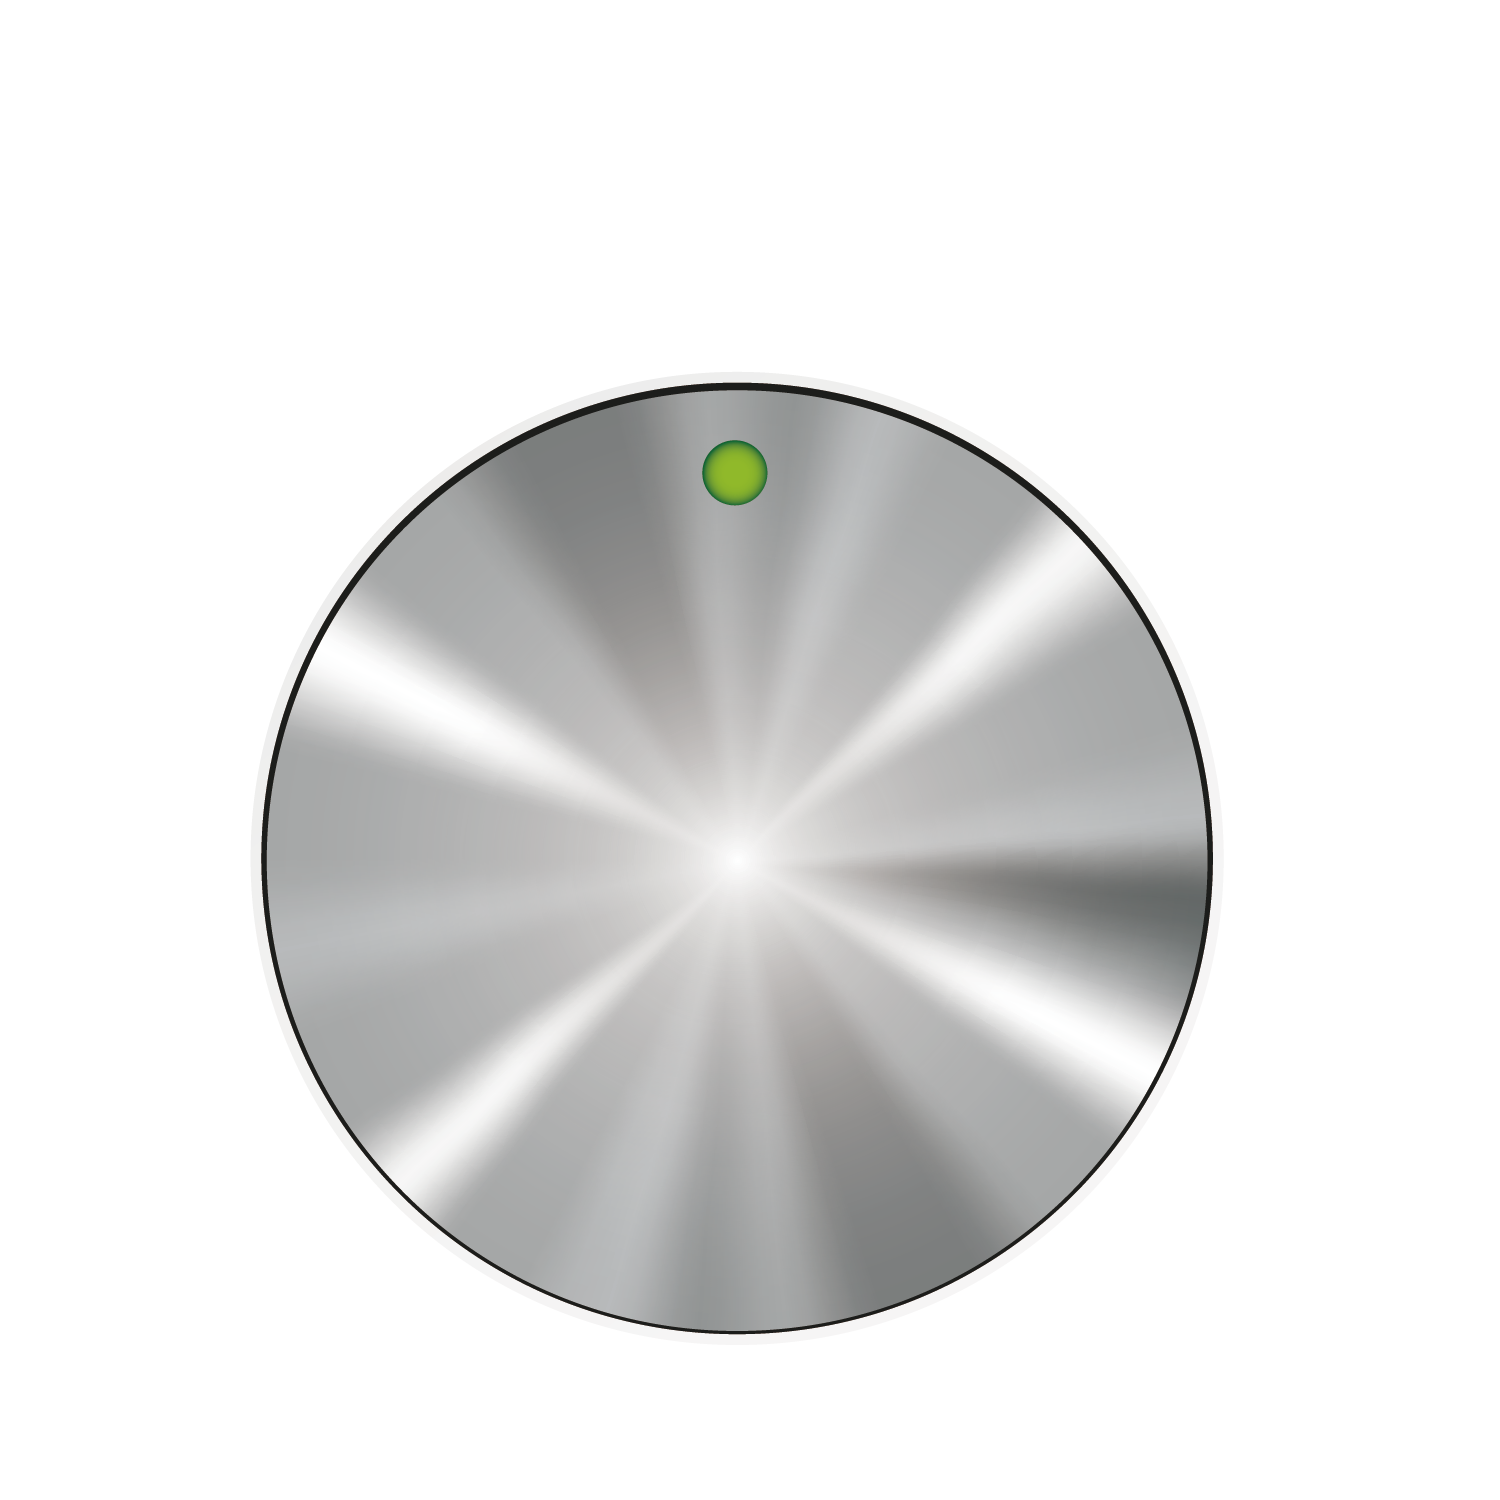
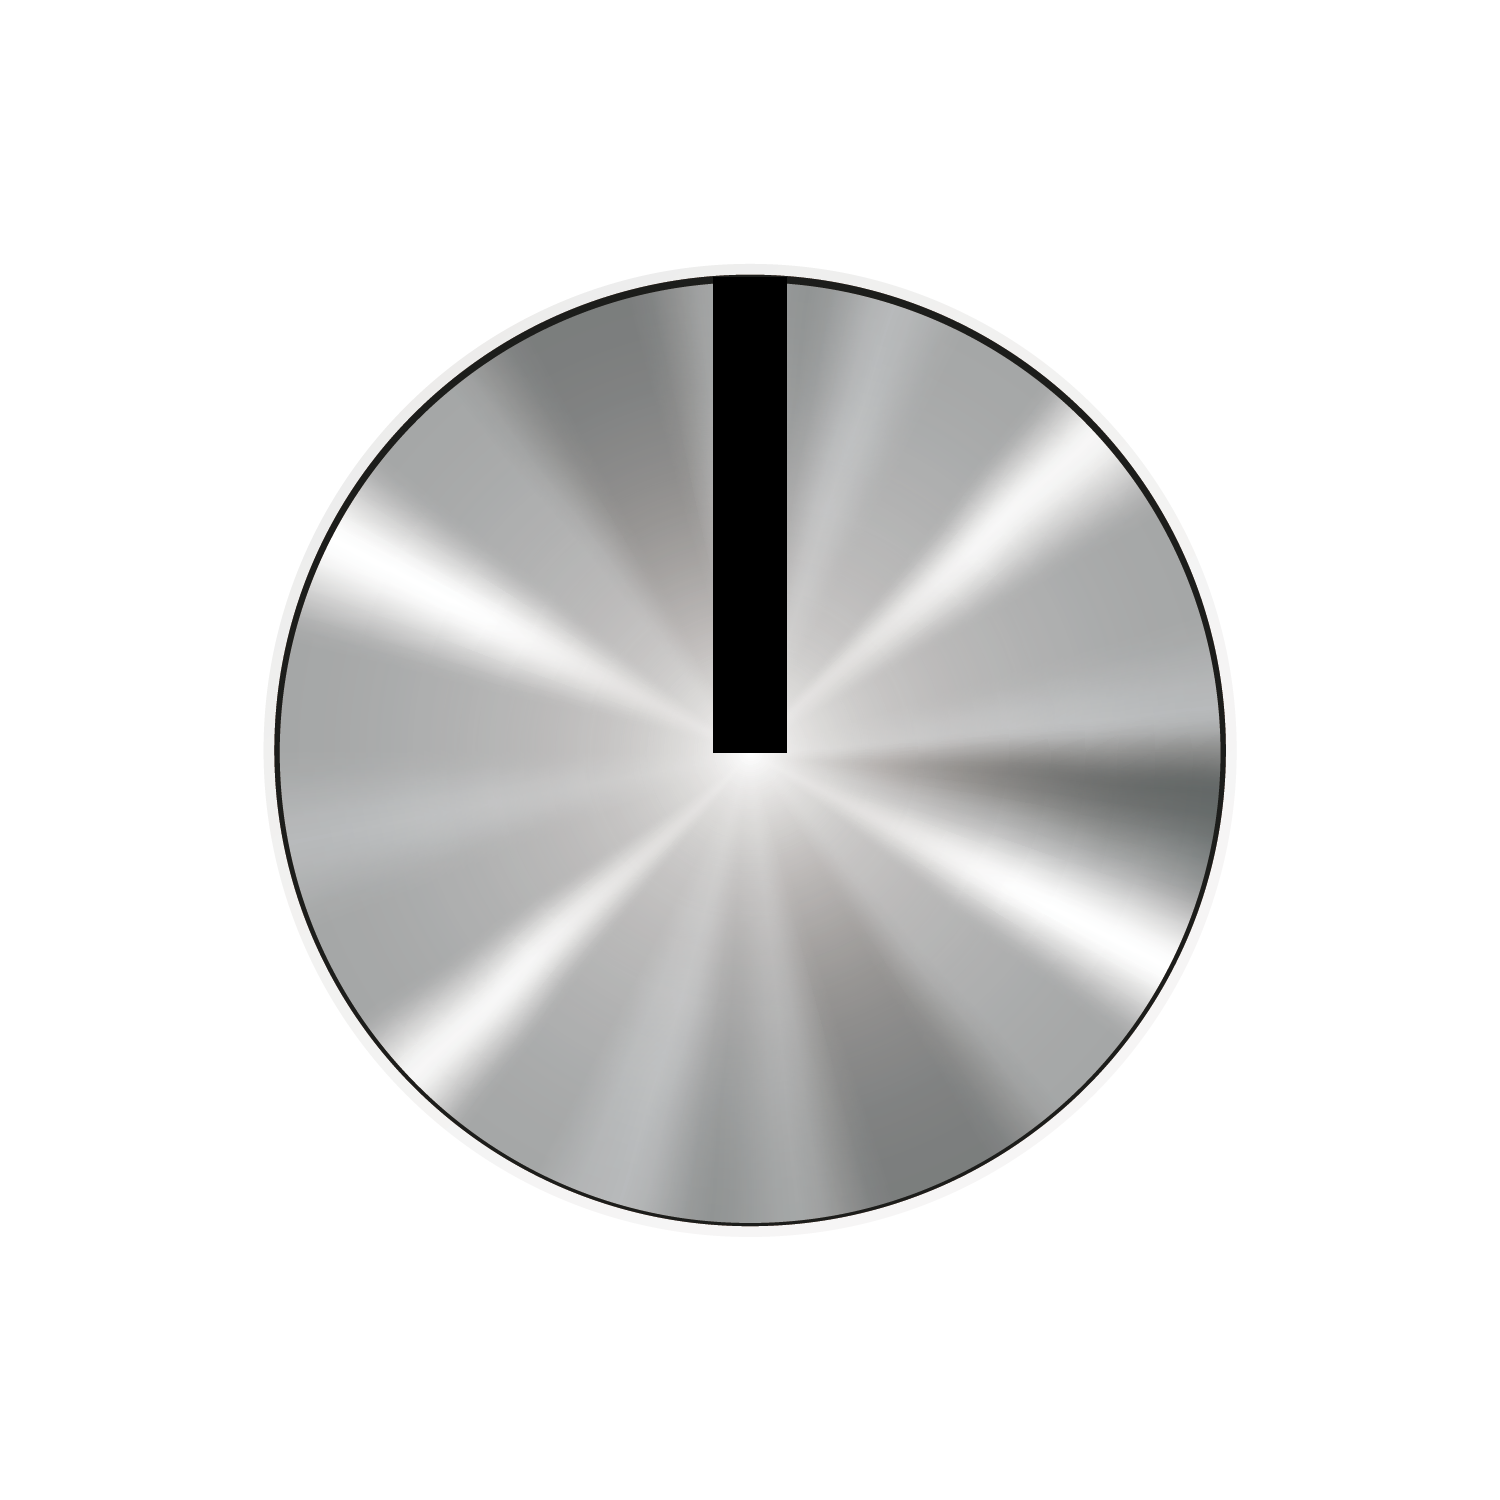
Adding the tire rotation mechanics

Changed region(s): [[0.1533, 0.184, 0.828, 0.8893]]

diff --git a/renderer.js b/renderer.js
@@ -2,6 +2,7 @@ let voltageData = [];
 let timeData = [];
 let voltageChart;
 let currentVoltage = 0;
+let speedPercentage  = 50;
 
 function drawLines() {
    // Drawing the circuit
@@ -15,8 +16,6 @@ function drawLines() {
   var spdtPositionY = document.getElementById('switchCircuit-box').getBoundingClientRect().bottom + window.scrollY - 20;
 
   var motorPositionX = document.getElementById('circuitMotor').getBoundingClientRect().left + window.scrollX + 105;
-  var motorPositionXL = document.getElementById('circuitMotor').getBoundingClientRect().left + window.scrollX + 50;
-  var motorPositionXR = document.getElementById('circuitMotor').getBoundingClientRect().right + window.scrollX - 50;
   var motorPositionYT = document.getElementById('circuitMotor').getBoundingClientRect().top + window.scrollY + 20;
   var motorPositionYB = document.getElementById('circuitMotor').getBoundingClientRect().bottom + window.scrollY + 10;
 
@@ -113,17 +112,78 @@ function drawLines() {
 
 document.addEventListener('DOMContentLoaded', () => {
   const powerButton = document.getElementById('powerButton');
-  const progressBar = document.getElementById('progressBar');
-  const lightButtons = document.querySelectorAll('.lightButton');
 
   let isPowerOn = false;
-  let intervalId;
-  let batteryLevel = 0; // Start with an empty battery
+  const knob = document.getElementById('knob');
+  let isDragging = false;
+  let startY = 0;
+  let tireRotation = 0;
+  let currentRotation = 0;
+  const tire = document.getElementById('tire');
 
-  const batteryDischargeRate = 0.5; // Percent per second
-  const batteryChargeRate = 10; // Percent per second
-  const maxBatteryLevel = 100;
-  const voltageCoefficient = 12.2 / maxBatteryLevel; // To calculate voltage based on battery level
+  function getRotationDegrees(yMove) {
+    // Calculate rotation, with 1 pixel movement corresponding to 1 degree of rotation
+    const degreesPerPixel = 180 / 100; // assuming 100 pixels movement for full range
+    return yMove * degreesPerPixel;
+  }
+
+  function animateTire() {
+    if (isPowerOn && speedPercentage > 0) {
+      // The base speed determines how fast the tire rotates at 100% speed
+      const baseSpeed = 0.5; // degrees per animation frame
+      // Adjust the speed based on the knob's percentage (linear scaling)
+      const speedAdjustment = (speedPercentage / 100) * baseSpeed;
+      tireRotation += speedAdjustment;
+      tireRotation = tireRotation % 360; // Keep the rotation angle within [0, 360]
+      tire.style.transform = `rotate(${tireRotation}deg)`;
+
+      requestAnimationFrame(animateTire); // Continue the animation loop
+    }
+  }
+
+  function updateKnob(value) {
+    // Clamp the value to the range -90 to 90
+    value = Math.max(-90, Math.min(90, value));
+    // Apply rotation to the knob
+    knob.style.transform = `rotate(${value}deg)`;
+    // Convert the angle to a percentage and log it
+    speedPercentage = (value + 90) / 180 * 100;
+    if (isPowerOn) {
+      requestAnimationFrame(animateTire);
+    }
+    console.log(`Knob value: ${speedPercentage.toFixed(2)}%`);
+  }
+
+  knob.addEventListener('mousedown', event => {
+    isDragging = true;
+    startY = event.clientY;
+    // Cancel any text selection
+    document.body.style.userSelect = 'none';
+    event.preventDefault(); // Prevent default drag behavior
+  });
+
+  document.addEventListener('mousemove', event => {
+    if (isDragging) {
+      const deltaY = event.clientY - startY;
+      // Calculate the new rotation based on deltaY
+      const newRotation = currentRotation - getRotationDegrees(deltaY);
+      // Update the knob with the new rotation
+      updateKnob(newRotation);
+    }
+  });
+
+  document.addEventListener('mouseup', event => {
+    if (isDragging) {
+      // Finalize the rotation value
+      const deltaY = event.clientY - startY;
+      currentRotation -= getRotationDegrees(deltaY);
+      currentRotation = Math.max(-90, Math.min(90, currentRotation)); // Clamp final rotation
+      updateKnob(currentRotation); // Update for the last time
+      isDragging = false;
+      // Restore text selection
+      document.body.style.userSelect = '';
+    }
+  });
 
 
   // Initialize the voltmeter with a value of 0 because the power is off
@@ -159,130 +219,26 @@ document.addEventListener('DOMContentLoaded', () => {
     }
   });
 
-
-  function updateAmmeter() {
-    const voltage = batteryLevel * voltageCoefficient;
-    const lightsOn = document.querySelectorAll('.lightButton.active').length;
-    
-    // Calculate the total power consumed by the lights
-    const totalPower = lightsOn * 21; // Assuming each light consumes 21W
-    const current = voltage > 0 ? totalPower / voltage : 0; // Avoid division by zero
-  }
-  
   setInterval(() => {
     const now = new Date().toLocaleTimeString();
     timeData.push(now);
     voltageData.push(currentVoltage);
     voltageChart.update();
-  }, 500); // 500 ms interval
-
-  // Function to update the voltmeter based on the current battery level
-  function updateVoltmeter() {
-    currentVoltage = batteryLevel * voltageCoefficient;
-    updateAmmeter(); // Update the ammeter at the same time
-  }
-
-  function updateStats() {
-    const voltage = batteryLevel * voltageCoefficient;
-    const lightsOn = document.querySelectorAll('.lightButton.active').length;
-    const totalPower = lightsOn * 21; // Assuming each light consumes 21W
-    const current = voltage > 0 ? totalPower / voltage : 0;
-    
-    const soc = batteryLevel; // Assuming SOC is directly proportional to battery level
-    const dod = 100 - soc; // DOD is the complement of SOC 
-  
-  }
-  
-
-  // Function to update the battery level and progress bar
-  function updateBatteryLevel(delta) {
-    batteryLevel += delta;
-    batteryLevel = Math.max(0, Math.min(maxBatteryLevel, batteryLevel)); // Keep battery level within bounds
-    progressBar.style.width = `${batteryLevel}%`;
-    updateVoltmeter();
-    updateStats();
-  }
+  }, 500);
 
   // Event listener for the power button
   powerButton.addEventListener('click', () => {
     isPowerOn = !isPowerOn;
     powerButton.style.backgroundColor = isPowerOn ? 'red' : 'white';
     powerButton.style.color = isPowerOn ? 'white' : 'red';
-    document.getElementById("batteryStat").textContent = isPowerOn ? 'Battery Status: Charging' : 'Battery Status: Not Charging';
-    managePowerState();
-  });
-
-  // Function to manage power state and battery charging/discharging
-  function managePowerState() {
-    clearInterval(intervalId); // Clear any existing interval
-
     if (isPowerOn) {
-      intervalId = setInterval(() => {
-        // Charge the battery if no lights are active
-        updateBatteryLevel(batteryChargeRate / 10);
-        // Check for battery full
-        if (batteryLevel >= maxBatteryLevel) {
-          batteryLevel = maxBatteryLevel;
-          clearInterval(intervalId);
-          alert('Battery charged to 100%');
-        }
-      }, 100); // Update 10 times per second
+      requestAnimationFrame(animateTire);
     } else {
-      updateVoltmeter(); // Update voltmeter to 0 when power is off
+      tire.style.transform = 'none'; // Reset the rotation
+      tireRotation = 0; // Reset the rotation angle
     }
-    updateStats();
-  }
-
-  // Function to manage light state and battery discharging
-  function manageLightState() {
-    clearInterval(intervalId); // Clear any existing interval
-
-    intervalId = setInterval(() => {
-        const lightsOn = document.querySelectorAll('.lightButton.active').length;
-        if (lightsOn > 0) {
-            updateBatteryLevel(-batteryDischargeRate * lightsOn / 10);
-            document.getElementById("batteryStat").textContent = 'Battery Status: Discharging';
-        } else if (isPowerOn) {
-            updateBatteryLevel(batteryChargeRate / 10);
-        } else{
-          document.getElementById("batteryStat").textContent = 'Battery Status: Idle';
-        } 
-        // Check for battery empty
-        if (batteryLevel <= 0) {
-            batteryLevel = 0;
-            clearInterval(intervalId);
-            alert('Battery empty');
-            lightButtons.forEach(button => button.classList.remove('active')); // Turn off all lights
-        }
-    }, 100); // Update 10 times per second
-
-    updateAmmeter(); // Update the ammeter reading here
-    updateStats();
-  }
-
-  lightButtons.forEach((button, index) => {
-    button.addEventListener('click', () => {
-        console.log("Light Clicked");
-        // Toggle the 'active' class for the button
-        const isLightOn = button.classList.toggle('active');
-
-        // Select the corresponding image
-        const lightImg = document.getElementById(`lightImg${index + 1}`);
-      
-        // Set the image source based on the button state
-        if (lightImg) {
-            lightImg.src = isLightOn ? 'lighton.png' : 'lightoff.png';
-        }
-
-        
-
-        // Call manageLightState to handle light state change
-        manageLightState();
-    });
   });
 
-  updateVoltmeter(); // Start with the voltmeter at 0V
-  updateStats();
   drawLines();
 });
 

diff --git a/index.html b/index.html
@@ -3,7 +3,7 @@
 <head>
   <meta charset="UTF-8">
   <meta name="viewport" content="width=device-width, initial-scale=1.0">
-  <title>NVIS425A</title>
+  <title>NVIS425R</title>
   <link rel="stylesheet" href="styles.css">
 
   <script src="https://cdn.jsdelivr.net/npm/chart.js"></script>
@@ -72,7 +72,7 @@
         <p id="currentLabel">0.00A</p>
       </div>
       <div id="circuitMotor">
-        <img src="motor.png" id="tire" class="motor-img">
+        <img src="motor.png" id="motor" class="motor-img">
       </div>
     </div>
     <div id="right-column">

diff --git a/styles.css b/styles.css
@@ -226,6 +226,16 @@ header {
   margin: 0;
 }
 
+@keyframes rotateTire {
+  from { transform: rotate(0deg); }
+  to { transform: rotate(360deg); }
+}
+
+.rotating {
+  animation: rotateTire 1s linear infinite;
+}
+
+
 #circuitMotor {
   display: flex;
   flex-direction: column;
